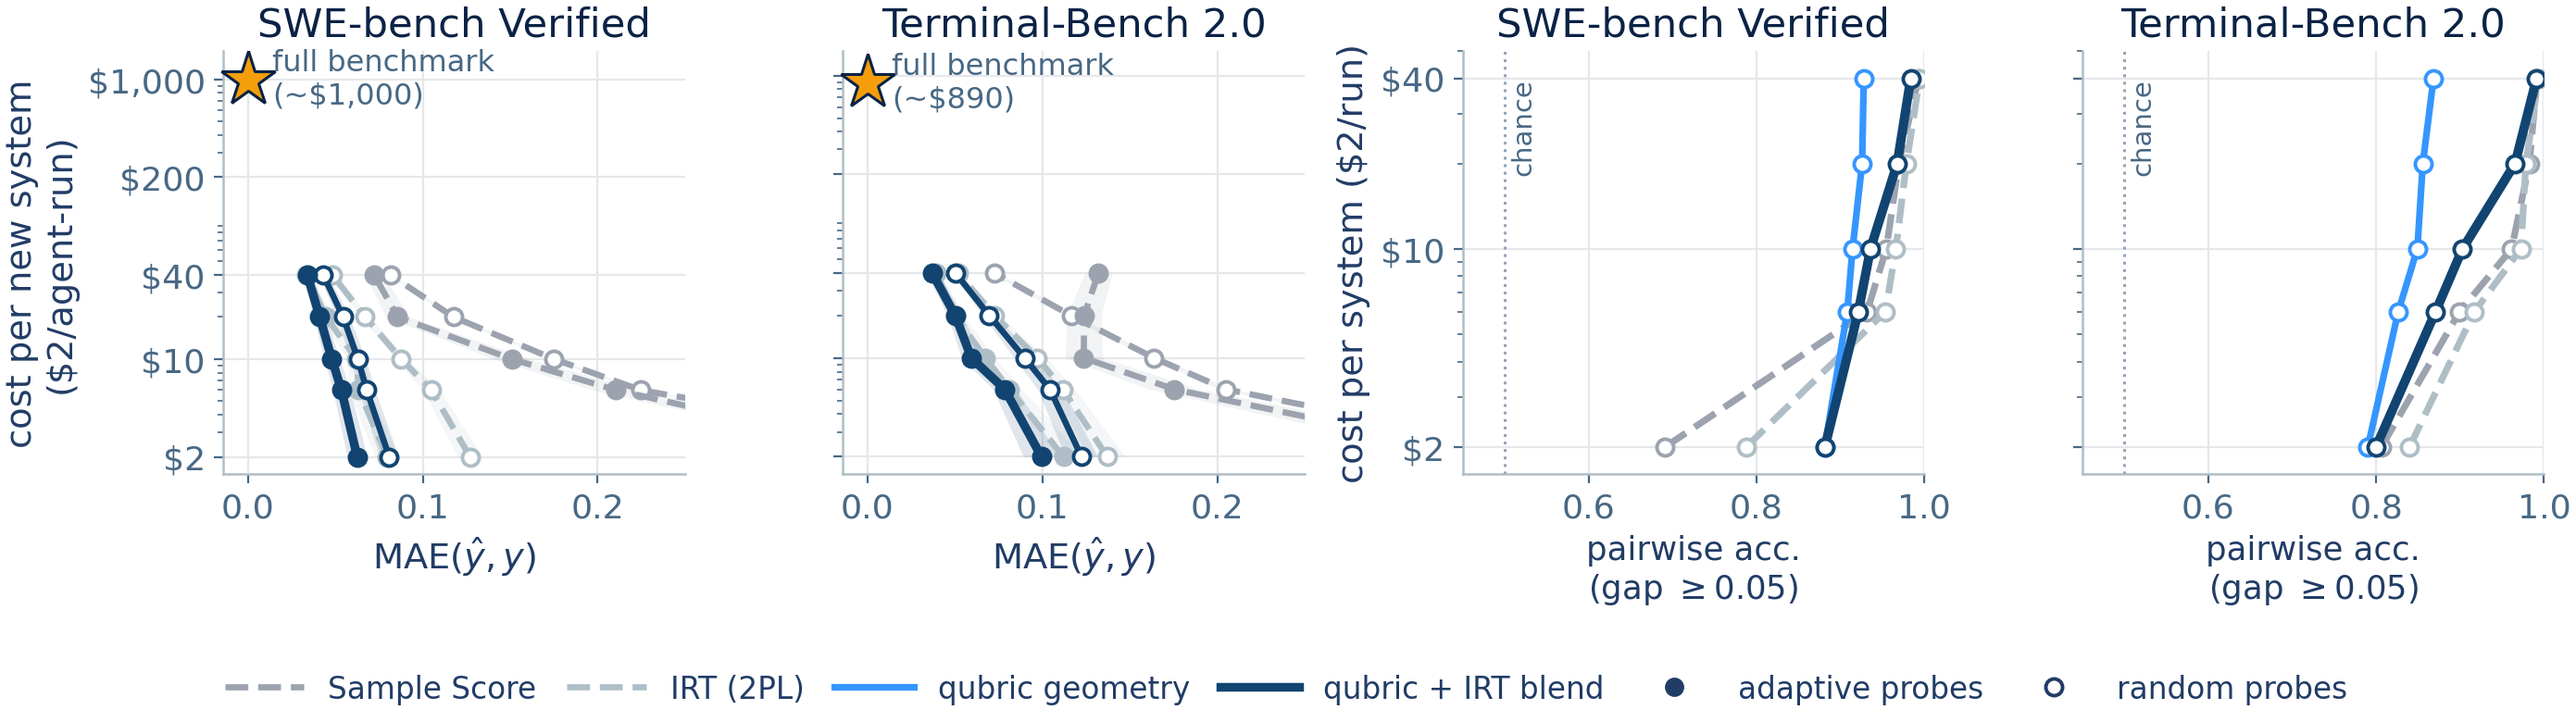
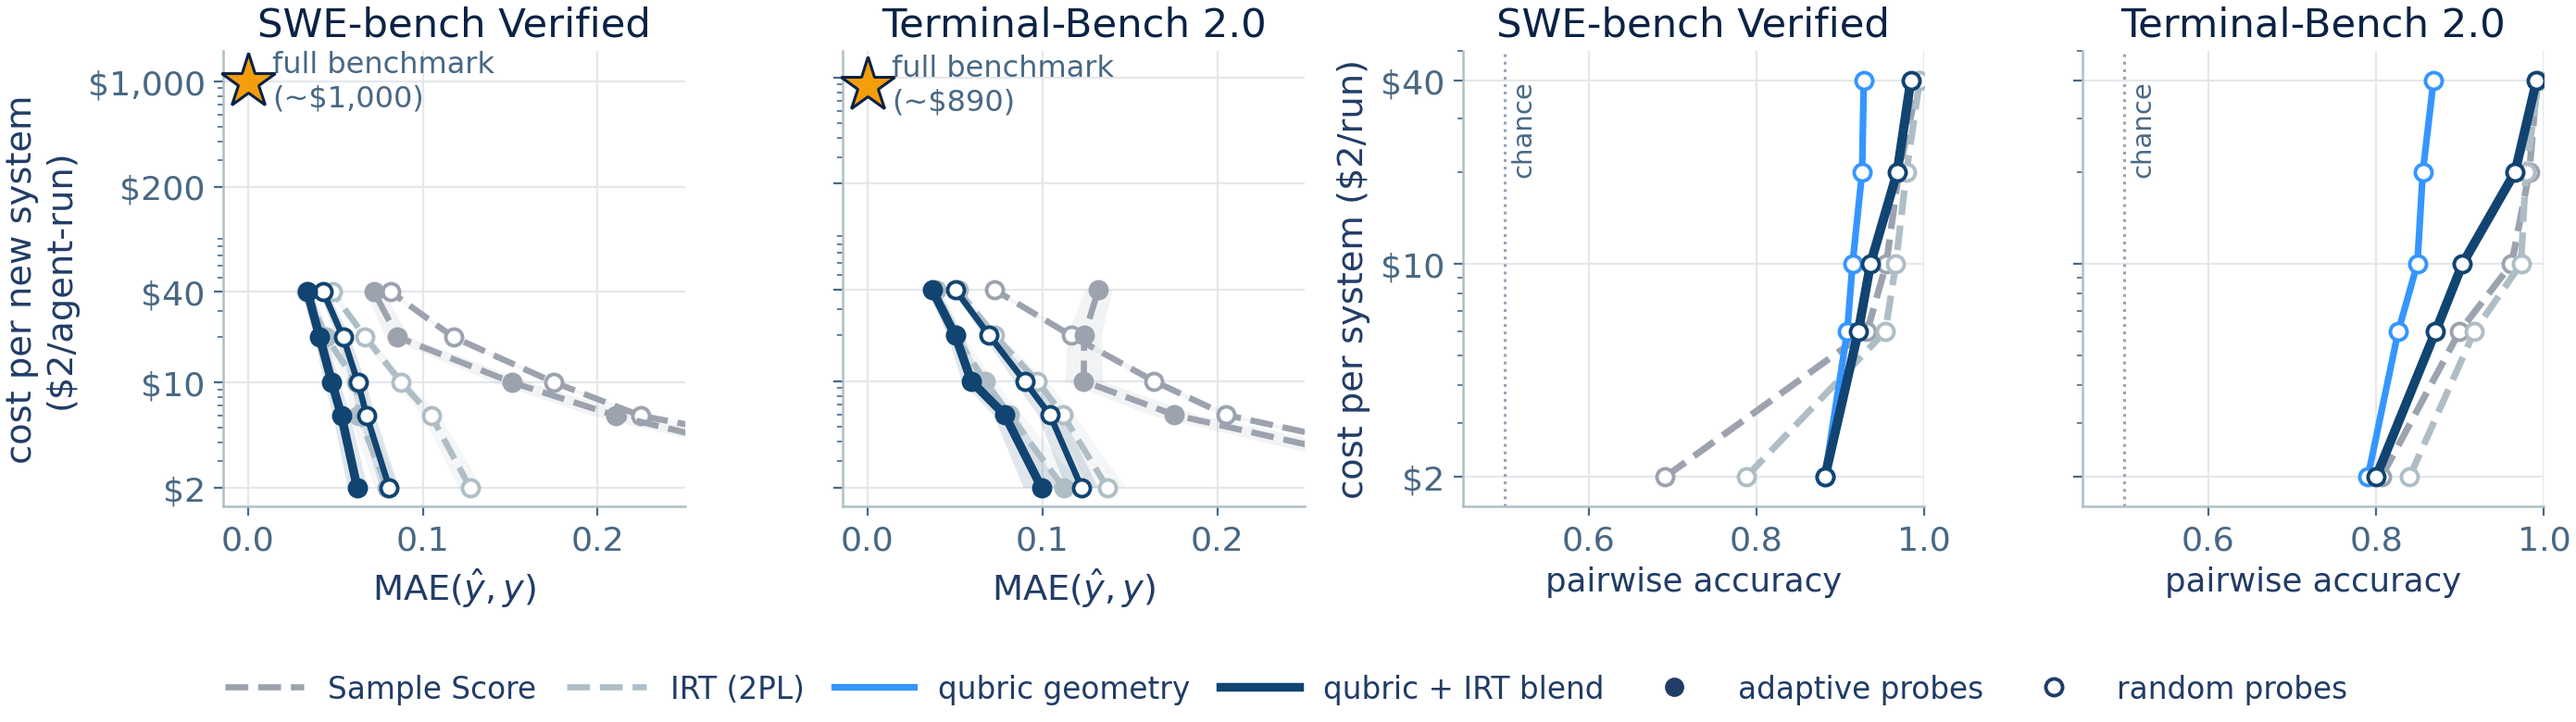
cost figure: xlabel 'pairwise accuracy' (drop gap threshold)
Claude-Session: https://claude.ai/code/session_01RGusFFXzoPTkSKgzzDLjNv

diff --git a/scripts/fig_cost.py b/scripts/fig_cost.py
@@ -122,7 +122,7 @@ def main():
         ax.set_xlim(.45, 1.0)
         ax.set_title(title, fontsize=SZ['label'],
                      color=hv_style.INK_TITLE)
-        ax.set_xlabel('pairwise acc.\n(gap $\\geq 0.05$)',
+        ax.set_xlabel('pairwise accuracy',
                       fontsize=SZ['subtitle'] - 1)
         ax.tick_params(labelsize=SZ['tick'])
     axes[2].set_ylabel('cost per system (\\$2/run)',
